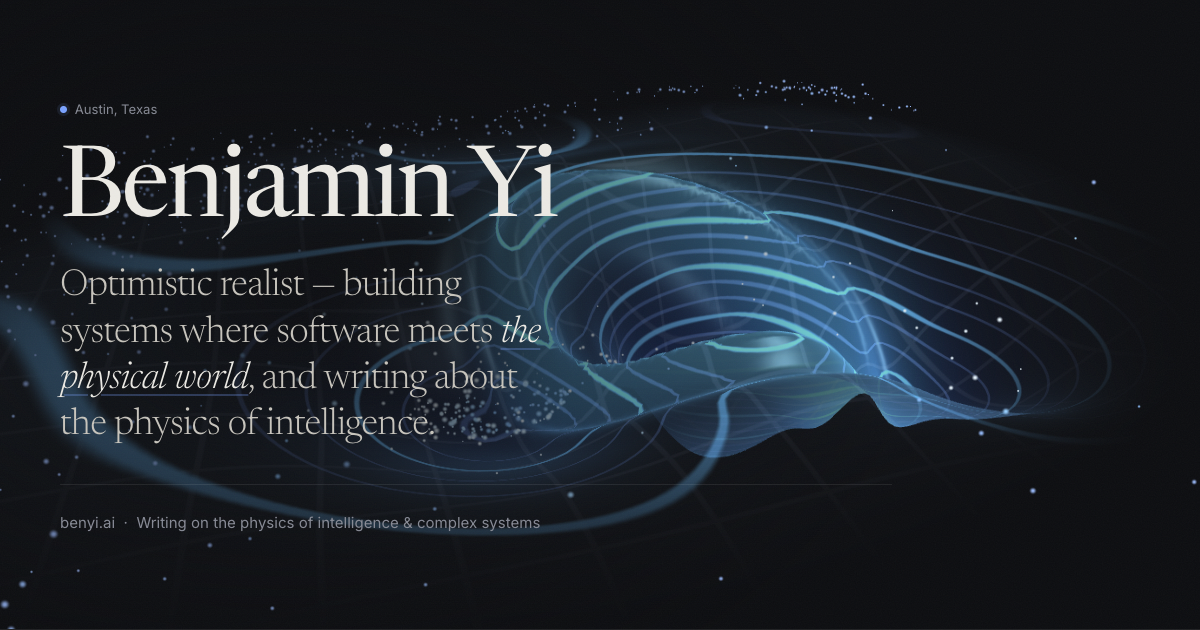
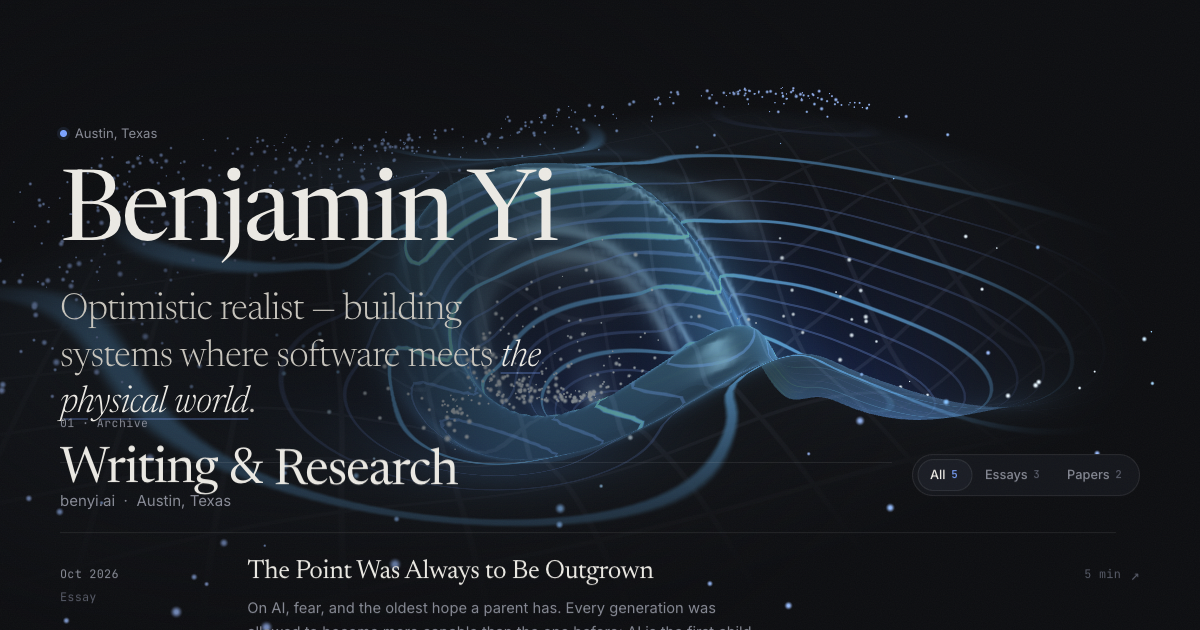
Refine hero, work, and contact copy and refresh OG card

diff --git a/index.html b/index.html
@@ -75,7 +75,7 @@
         "familyName": "Yi",
         "url": "https://benyi.ai/",
         "image": "https://benyi.ai/og.png",
-        "description": "Optimistic realist in Austin, Texas — building systems where software meets the physical world, and writing about the physics of intelligence. Co-founder & CEO at RestoreFast.",
+        "description": "Optimistic realist in Austin, Texas — building systems where software meets the physical world. Co-founder & CEO at RestoreFast.",
         "jobTitle": "Co-Founder & CEO",
         "worksFor": { "@type": "Organization", "name": "RestoreFast", "url": "https://www.restorefast.com" },
         "alumniOf": { "@type": "CollegeOrUniversity", "name": "University of Maryland, College Park" },
@@ -164,7 +164,7 @@
 
         <p class="hero__statement hero-anim" style="--d: 260ms">
           Optimistic realist — building systems where software meets
-          <em>the physical world</em>, and writing about the physics of intelligence.
+          <em>the physical world</em>.
         </p>
 
         <div class="hero__foot hero-anim" style="--d: 390ms">
@@ -421,7 +421,7 @@
 
           <p class="work-plate__lead">
             Remodeling physical-world contracting as a systems architecture problem — pairing real
-            boots-on-the-ground operations across military housing with an industrial AI lab.
+            boots-on-the-ground operations across the U.S. built environment with an industrial AI lab.
           </p>
 
           <p class="work-plate__copy">
@@ -463,7 +463,7 @@
           <span class="kicker mono">04 · Correspondence</span>
           <h2 class="band__title kinetic-title">Say hello.</h2>
           <p class="contact-intro__copy">
-            Always glad to talk with builders, physicists, and people working on stubborn real-world problems.
+            Always glad to talk with builders, researchers, and people working on stubborn real-world problems.
           </p>
 
           <div class="contact-direct">
